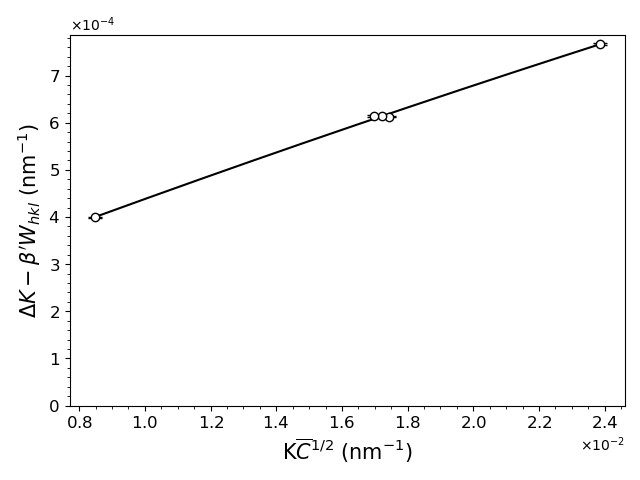
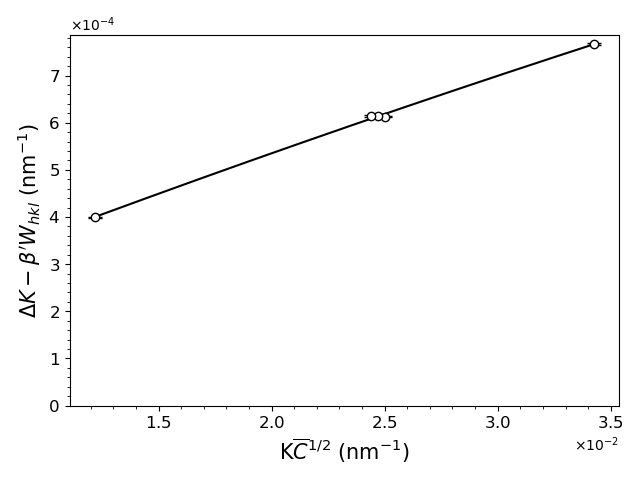
update

diff --git a/dislocation_density/dislocation_density.py b/dislocation_density/dislocation_density.py
@@ -31,7 +31,7 @@ df.replace("NP", np.nan, inplace=True)
 
 
 # Chosing one unique diffraction spectra to calc dislocation density (FWHM and angle info)
-SPECTRAS = np.arange(0, 14, 1) # Number of the diffraction data
+SPECTRAS = np.arange(0, 13, 1) # Number of the diffraction data
 INSTRUMENTAL_BROADENING = 0.0160558308639235
 
 fwhm = {}
@@ -242,9 +242,9 @@ class DislocationDensityMWH:
         elif self.structure.upper() == "FCC":
             df_edge = pd.read_csv(f"abcd_parameters_for_q_edge_dislocation_fcc.txt", delimiter=";")
             # c11, c12 and c44 were chosen from F. HajyAkbary et al. (2015) Materials Science & Engineering A 639
-            c11 = 540
-            c12 = 120
-            c44 = 260
+            c11 = 163
+            c12 = 141
+            c44 = 79.6
             
             a_q_screw = 5.4252
             b_q_screw = 0.7196
@@ -476,11 +476,8 @@ class DislocationDensityMWH:
             
             p = 0
             for key, value in k["delta_k"].items():
-                # print(np.array(k["k"][key]) * np.sqrt(np.array(c[key])))
                 x = np.array(k["k"][key]) * np.sqrt(np.array(c[key]))
-                # print(x)    
                 x_ = np.array(x).reshape((-1, 1))
-                # print(x_)
                 new_x = np.linspace(x.min(), x.max(), 1000)
                 
                 best_beta[key] = 0

diff --git a/dislocation_density/plot.py b/dislocation_density/plot.py
@@ -6,10 +6,24 @@ import numpy as np
 df = pd.read_csv("dislocation_density_data_FCC.txt", sep=",")
 
 fig, ax = plt.subplots()
-ax.errorbar(x=df["names"], y=df["rho"], yerr=df["std"], capsize=5)
+ax.errorbar(x=df["names"], y=df["rho"], yerr=df["std"], 
+            capsize=5, 
+            ls="--", 
+            c="k")
+ax.set_xlabel("Measurement", size=15)
+ax.set_ylabel(r"Dislocation Density (m$^{-2}$)", size=15)
 ax.set_yscale("log")
+ax.tick_params(axis="both", labelsize=12)
+fig.tight_layout()
 
 fig1, ax1 = plt.subplots()
-ax1.errorbar(df["names"], df["D"], yerr=df["std_grain"], capsize=5, linestyle="")
+ax1.errorbar(df["names"], df["D"]/1000, yerr=df["std_grain"]/1000, 
+             capsize=5, 
+             linestyle="--", 
+             c="k")
+ax1.set_xlabel("Measurement", size=15)
+ax1.tick_params(axis="both", labelsize=12)
+ax1.set_ylabel(r"Crystallite size ($\mu$m)", size=15)
+fig1.tight_layout()
 
 plt.show()
